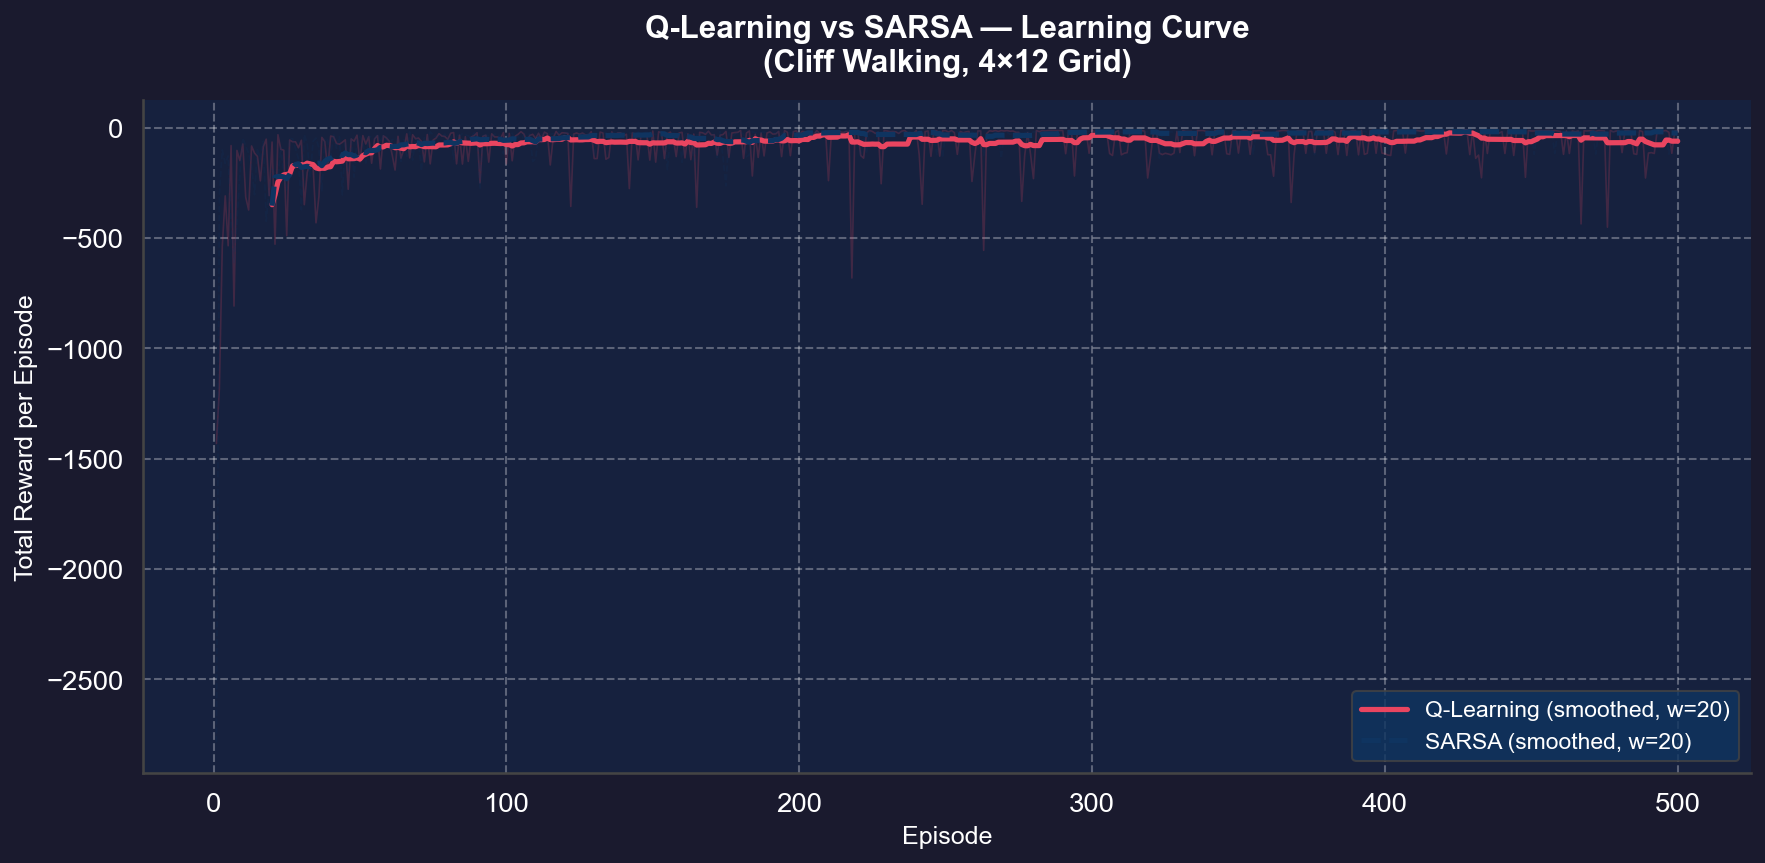
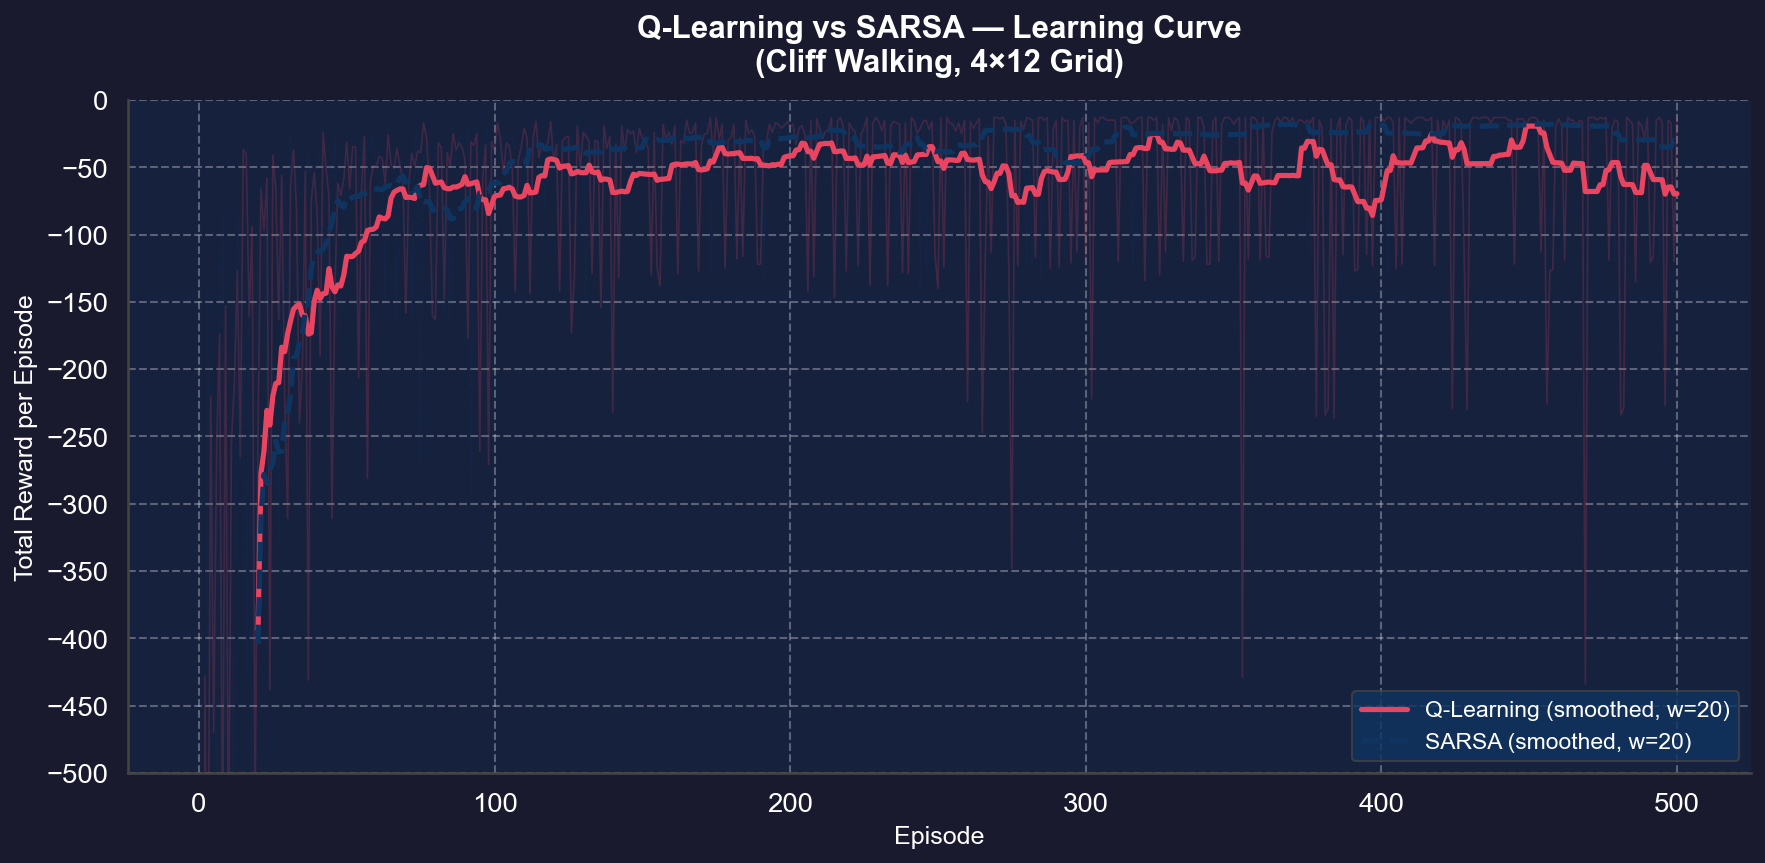
feat: improved visualizations - Y-axis clip, distinct policy arrows, optimal path overlay

diff --git a/main.py b/main.py
@@ -110,6 +110,10 @@ def plot_learning_curve(q_rewards, s_rewards, smooth_window, save_path):
     ax.plot(smooth_x, smooth_q, color=COLORS["qlearning"], linewidth=2.5, label=f"Q-Learning (smoothed, w={smooth_window})")
     ax.plot(smooth_x, smooth_s, color=COLORS["sarsa"],     linewidth=2.5, linestyle='--', label=f"SARSA (smoothed, w={smooth_window})")
 
+    # ── Fix Y-axis to -500 ~ 0 for clear comparison ──
+    ax.set_ylim(-500, 0)
+    ax.set_yticks(range(-500, 1, 50))
+
     ax.set_title("Q-Learning vs SARSA — Learning Curve\n(Cliff Walking, 4×12 Grid)", color='white', fontsize=15, fontweight='bold', pad=14)
     ax.set_xlabel("Episode", color='white', fontsize=12)
     ax.set_ylabel("Total Reward per Episode", color='white', fontsize=12)
@@ -132,81 +136,158 @@ def plot_learning_curve(q_rewards, s_rewards, smooth_window, save_path):
 # Visualization: Policy Heatmap (style.png)
 # ─────────────────────────────────────────────
 
-def extract_policy_grid(agent, env):
-    """Return a (rows x cols) array of best-action values for heatmap."""
-    rows, cols = env.get_grid_shape()
-    policy = np.zeros((rows, cols))
-    q_vals = np.zeros((rows, cols))
-    action_symbols = {0: '^', 1: 'v', 2: '<', 3: '>'}
+# Action → (drow, dcol) for arrow direction
+ACTION_DR = {0: -1, 1: 1, 2: 0, 3: 0}  # row delta (up=-1 in matrix coords)
+ACTION_DC = {0: 0,  1: 0, 2: -1, 3: 1}  # col delta
 
-    annotations = []
+
+def extract_policy_data(agent, env):
+    """Return q_vals grid, and action arrays (U, V) for quiver arrows."""
+    rows, cols = env.get_grid_shape()
+    q_vals = np.zeros((rows, cols))
+    U = np.zeros((rows, cols))  # col direction (x)
+    V = np.zeros((rows, cols))  # row direction (y, inverted for plot)
+
     for r in range(rows):
-        row_ann = []
         for c in range(cols):
             state = r * cols + c
             best_a = agent.get_best_action(state)
-            q_val = agent.get_q(state, best_a)
-            q_vals[r, c] = q_val
-            row_ann.append(action_symbols[best_a])
-        annotations.append(row_ann)
+            q_vals[r, c] = agent.get_q(state, best_a)
+            U[r, c] =  ACTION_DC[best_a]
+            V[r, c] = -ACTION_DR[best_a]  # invert because y-axis is flipped in heatmap
 
-    return q_vals, annotations
+    return q_vals, U, V
+
+
+def get_optimal_path(agent, env, max_steps=200):
+    """Greedy rollout from start to goal, returns list of (row, col)."""
+    env_copy = CliffWalkingEnv()
+    state_idx = env_copy.reset()
+    path = [env_copy.state]
+    for _ in range(max_steps):
+        best_a = agent.get_best_action(state_idx)
+        state_idx, _, done = env_copy.step(best_a)
+        path.append(env_copy.state)
+        if done:
+            break
+    return path
 
 
 def plot_policy_style(q_agent, s_agent, env, save_path):
     rows, cols = env.get_grid_shape()
-    fig, axes = plt.subplots(1, 2, figsize=(18, 5))
-    fig.patch.set_facecolor('#1A1A2E')
 
-    titles = ["Q-Learning Policy (Off-policy)", "SARSA Policy (On-policy)"]
-    agents = [q_agent, s_agent]
-    cmaps = ["rocket", "mako"]
+    # ── Distinct colormaps per agent for visual contrast ──
+    # Q-Learning: warm red-orange (YlOrRd), SARSA: cool blue-teal (YlGnBu)
+    AGENT_CFG = [
+        {"title": "Q-Learning  (Off-policy)",  "cmap": "YlOrRd",  "arrow_color": "#FF4500",
+         "path_color": "#FFD700", "agent": q_agent},
+        {"title": "SARSA  (On-policy)",         "cmap": "YlGnBu", "arrow_color": "#00BFFF",
+         "path_color": "#FFFACD", "agent": s_agent},
+    ]
 
-    for idx, (ax, agent, title, cmap) in enumerate(zip(axes, agents, titles, cmaps)):
-        ax.set_facecolor('#16213E')
-        q_vals, annotations = extract_policy_grid(agent, env)
+    fig, axes = plt.subplots(1, 2, figsize=(20, 6))
+    fig.patch.set_facecolor('#0D1117')
 
-        # Draw heatmap
-        sns.heatmap(q_vals, ax=ax, cmap=cmap, annot=False,
-                    linewidths=0.3, linecolor='#333344',
-                    cbar=True, cbar_kws={'shrink': 0.7})
+    for ax, cfg in zip(axes, AGENT_CFG):
+        agent     = cfg["agent"]
+        q_vals, U, V = extract_policy_data(agent, env)
 
-        # Overlay action arrows as text
+        # ── Background heatmap ──
+        im = ax.imshow(q_vals, cmap=cfg["cmap"], aspect='auto',
+                       interpolation='nearest', alpha=0.85)
+        cbar = fig.colorbar(im, ax=ax, shrink=0.7, pad=0.02)
+        cbar.ax.yaxis.set_tick_params(color='lightgray')
+        plt.setp(cbar.ax.yaxis.get_ticklabels(), color='lightgray')
+        cbar.set_label('Q-value', color='lightgray', fontsize=9)
+
+        # ── Grid lines ──
+        ax.set_xticks(np.arange(-0.5, cols, 1), minor=True)
+        ax.set_yticks(np.arange(-0.5, rows, 1), minor=True)
+        ax.grid(which='minor', color='#333344', linewidth=0.6)
+        ax.tick_params(which='minor', length=0)
+
+        # ── Quiver arrows (skip cliff & goal) ──
+        for r in range(rows):
+            for c in range(cols):
+                pos = (r, c)
+                if pos in env.cliff or pos == env.goal:
+                    continue
+                ax.annotate("",
+                    xy=(c + 0.5 + U[r, c] * 0.34, r + 0.5 - V[r, c] * 0.34),
+                    xytext=(c + 0.5 - U[r, c] * 0.28, r + 0.5 + V[r, c] * 0.28),
+                    arrowprops=dict(
+                        arrowstyle="-|>",
+                        color=cfg["arrow_color"],
+                        lw=1.8,
+                        mutation_scale=16,
+                    )
+                )
+
+        # ── Special cell labels ──
         for r in range(rows):
             for c in range(cols):
                 pos = (r, c)
                 if pos in env.cliff:
-                    ax.text(c + 0.5, r + 0.5, 'X', ha='center', va='center',
-                            fontsize=11, fontweight='bold', color='orange')
+                    ax.add_patch(plt.Rectangle((c, r), 1, 1,
+                                               color='#8B0000', alpha=0.7, zorder=2))
+                    ax.text(c + 0.5, r + 0.5, 'CLIFF', ha='center', va='center',
+                            fontsize=5.5, fontweight='bold', color='white', zorder=3)
                 elif pos == env.start:
-                    ax.text(c + 0.5, r + 0.5, 'S', ha='center', va='center',
-                            fontsize=12, fontweight='bold', color='lime')
+                    ax.add_patch(plt.Rectangle((c, r), 1, 1,
+                                               color='#006400', alpha=0.8, zorder=2))
+                    ax.text(c + 0.5, r + 0.5, 'START', ha='center', va='center',
+                            fontsize=7, fontweight='bold', color='lime', zorder=3)
                 elif pos == env.goal:
-                    ax.text(c + 0.5, r + 0.5, 'G', ha='center', va='center',
-                            fontsize=12, fontweight='bold', color='gold')
-                else:
-                    ax.text(c + 0.5, r + 0.5, annotations[r][c], ha='center',
-                            va='center', fontsize=11, color='white')
+                    ax.add_patch(plt.Rectangle((c, r), 1, 1,
+                                               color='#8B6914', alpha=0.8, zorder=2))
+                    ax.text(c + 0.5, r + 0.5, 'GOAL', ha='center', va='center',
+                            fontsize=7, fontweight='bold', color='gold', zorder=3)
 
-        ax.set_title(title, color='white', fontsize=13, fontweight='bold', pad=10)
+        # ── Optimal path overlay ──
+        opt_path = get_optimal_path(agent, env)
+        if len(opt_path) > 1:
+            path_cols = [p[1] + 0.5 for p in opt_path]
+            path_rows = [p[0] + 0.5 for p in opt_path]
+            ax.plot(path_cols, path_rows,
+                    color=cfg["path_color"], linewidth=3.0, zorder=5,
+                    marker='o', markersize=5, markerfacecolor=cfg["path_color"],
+                    markeredgecolor='white', markeredgewidth=0.8,
+                    label='Optimal Path')
+            # Mark Start & Goal on path
+            ax.plot(path_cols[0],  path_rows[0],  's', color='lime',
+                    markersize=10, zorder=6, markeredgecolor='white', markeredgewidth=1)
+            ax.plot(path_cols[-1], path_rows[-1], '*', color='gold',
+                    markersize=14, zorder=6, markeredgecolor='white', markeredgewidth=0.8)
+
+        # ── Axes style ──
+        ax.set_xlim(0, cols)
+        ax.set_ylim(rows, 0)   # top-left origin matches grid
+        ax.set_xticks(np.arange(0.5, cols, 1))
+        ax.set_yticks(np.arange(0.5, rows, 1))
+        ax.set_xticklabels(range(cols), color='lightgray', fontsize=8)
+        ax.set_yticklabels(range(rows), color='lightgray', fontsize=8)
+        ax.set_title(cfg["title"], color='white', fontsize=13, fontweight='bold', pad=12)
         ax.set_xlabel("Column", color='lightgray', fontsize=10)
-        ax.set_ylabel("Row", color='lightgray', fontsize=10)
-        ax.tick_params(colors='lightgray', labelsize=8)
-        ax.collections[0].colorbar.ax.yaxis.set_tick_params(color='lightgray')
-        plt.setp(ax.collections[0].colorbar.ax.yaxis.get_ticklabels(), color='lightgray')
+        ax.set_ylabel("Row",    color='lightgray', fontsize=10)
+        ax.set_facecolor('#0D1117')
+        ax.spines[:].set_color('#333')
 
-    # Legend patches
+    # ── Shared legend ──
     legend_elements = [
-        mpatches.Patch(color='lime',   label='S = Start'),
-        mpatches.Patch(color='gold',   label='G = Goal'),
-        mpatches.Patch(color='orange', label='X = Cliff (Danger)'),
+        mpatches.Patch(color='#006400', label='Start (S)'),
+        mpatches.Patch(color='#8B6914', label='Goal (G)'),
+        mpatches.Patch(color='#8B0000', label='Cliff (Danger)'),
+        plt.Line2D([0], [0], color='#FFD700', lw=2.5, marker='o', markersize=5,
+                   label='Optimal Path (Q-Learning)'),
+        plt.Line2D([0], [0], color='#FFFACD', lw=2.5, marker='o', markersize=5,
+                   linestyle='--', label='Optimal Path (SARSA)'),
     ]
-    fig.legend(handles=legend_elements, loc='lower center', ncol=3,
-               facecolor='#0F3460', edgecolor='#444', labelcolor='white', fontsize=11,
-               bbox_to_anchor=(0.5, -0.05))
+    fig.legend(handles=legend_elements, loc='lower center', ncol=5,
+               facecolor='#161B22', edgecolor='#444', labelcolor='white', fontsize=10,
+               bbox_to_anchor=(0.5, -0.08))
 
-    fig.suptitle("Learned Policy Maps — Q-Learning vs SARSA", color='white',
-                 fontsize=15, fontweight='bold', y=1.02)
+    fig.suptitle("Learned Policy Maps & Optimal Paths — Q-Learning vs SARSA",
+                 color='white', fontsize=15, fontweight='bold', y=1.01)
 
     plt.tight_layout()
     plt.savefig(save_path, dpi=150, bbox_inches='tight', facecolor=fig.get_facecolor())
